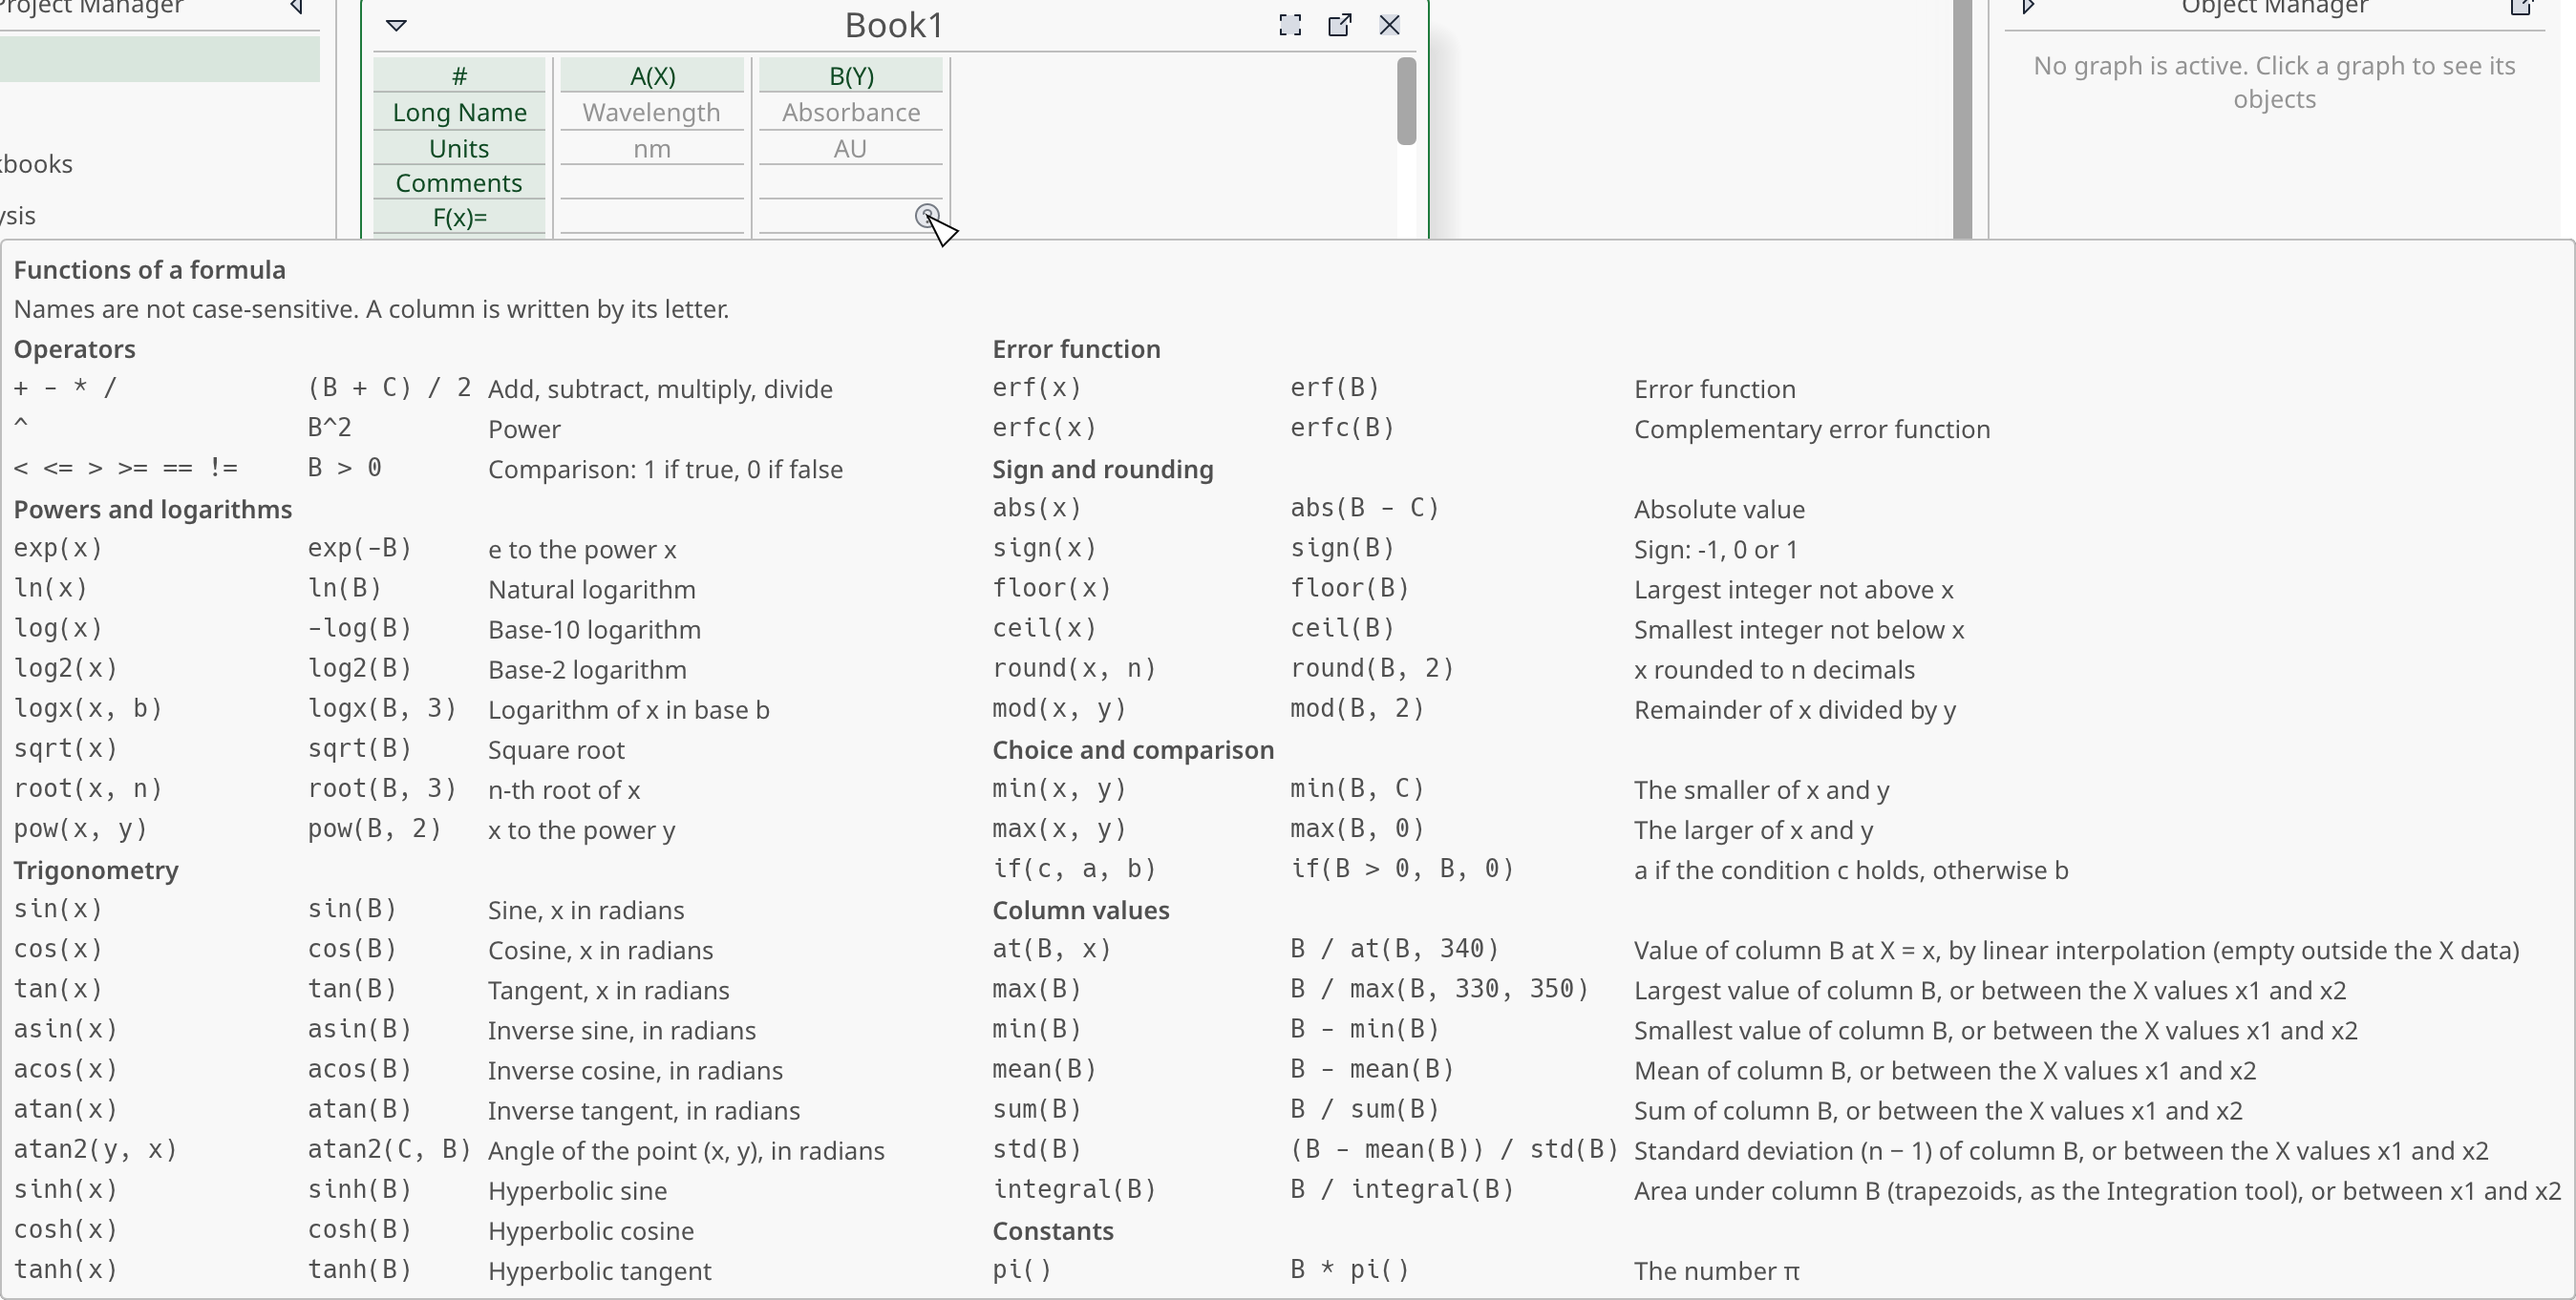
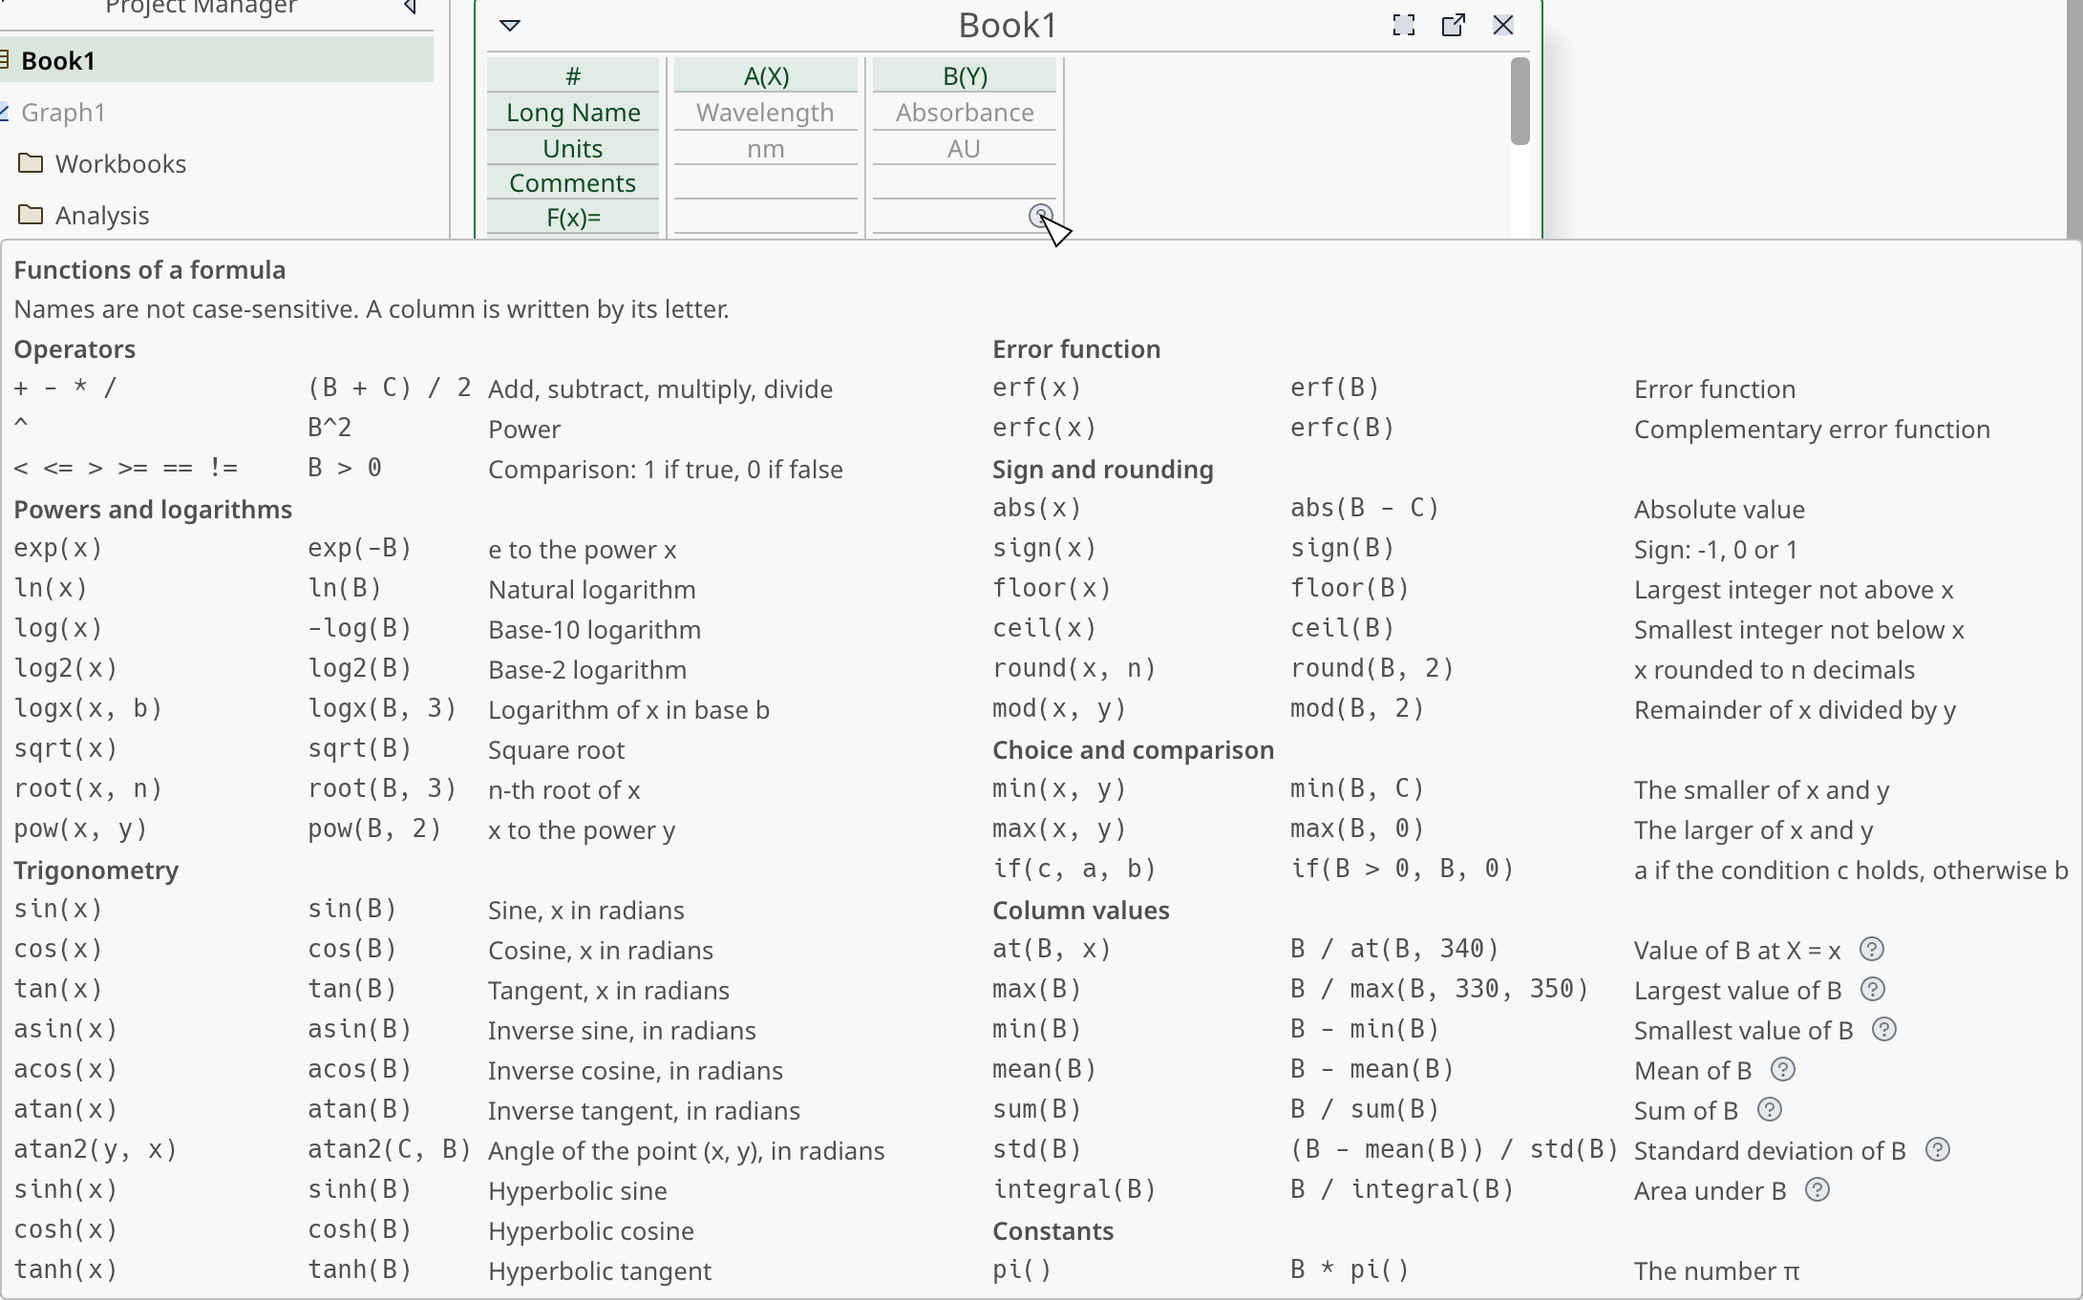
Formula help: short Column values rows with a "?" for the full explanation (Refs #402)
Claude-Session: https://claude.ai/code/session_01PxxG2ShyeKXrR6nqd4iMzf

diff --git a/crates/stokesforge-app-state/src/formula_help.rs b/crates/stokesforge-app-state/src/formula_help.rs
@@ -70,6 +70,9 @@ pub struct HelpRow {
     pub example: &'static str,
     /// What it computes, in the interface language.
     pub description: String,
+    /// The full explanation, shown by a "?" at the end of the row: only the
+    /// "Column values" rows have one (their description is a few words).
+    pub detail: Option<String>,
 }
 
 /// A family and its rows.
@@ -85,6 +88,7 @@ struct Entry {
     signature: &'static str,
     example: &'static str,
     description: String,
+    detail: Option<String>,
 }
 
 fn row(
@@ -98,12 +102,27 @@ fn row(
         signature,
         example,
         description,
+        detail: None,
+    }
+}
+
+/// A row of the "Column values" family: a short description and, behind a "?",
+/// the full explanation.
+fn column_row(
+    signature: &'static str,
+    example: &'static str,
+    description: String,
+    detail: String,
+) -> Entry {
+    Entry {
+        detail: Some(detail),
+        ..row(Family::ColumnValues, signature, example, description)
     }
 }
 
 /// The help entry of a callee. Exhaustive: no `_`.
 fn entry(callee: Callee) -> Entry {
-    use Family::{Choice, ColumnValues, Constants, Error, Powers, Rounding, Trigonometry};
+    use Family::{Choice, Constants, Error, Powers, Rounding, Trigonometry};
     match callee {
         Callee::If => row(
             Choice,
@@ -112,47 +131,47 @@ fn entry(callee: Callee) -> Entry {
             tr!("formula-help-if"),
         ),
         Callee::Column(func) => match func {
-            ColumnFunc::At => row(
-                ColumnValues,
+            ColumnFunc::At => column_row(
                 "at(B, x)",
                 "B / at(B, 340)",
                 tr!("formula-help-at"),
+                tr!("formula-help-at-detail"),
             ),
-            ColumnFunc::Max => row(
-                ColumnValues,
+            ColumnFunc::Max => column_row(
                 "max(B)",
                 "B / max(B, 330, 350)",
                 tr!("formula-help-max-column"),
+                tr!("formula-help-max-column-detail"),
             ),
-            ColumnFunc::Min => row(
-                ColumnValues,
+            ColumnFunc::Min => column_row(
                 "min(B)",
                 "B - min(B)",
                 tr!("formula-help-min-column"),
+                tr!("formula-help-min-column-detail"),
             ),
-            ColumnFunc::Mean => row(
-                ColumnValues,
+            ColumnFunc::Mean => column_row(
                 "mean(B)",
                 "B - mean(B)",
                 tr!("formula-help-mean"),
+                tr!("formula-help-mean-detail"),
             ),
-            ColumnFunc::Sum => row(
-                ColumnValues,
+            ColumnFunc::Sum => column_row(
                 "sum(B)",
                 "B / sum(B)",
                 tr!("formula-help-sum"),
+                tr!("formula-help-sum-detail"),
             ),
-            ColumnFunc::Std => row(
-                ColumnValues,
+            ColumnFunc::Std => column_row(
                 "std(B)",
                 "(B - mean(B)) / std(B)",
                 tr!("formula-help-std"),
+                tr!("formula-help-std-detail"),
             ),
-            ColumnFunc::Integral => row(
-                ColumnValues,
+            ColumnFunc::Integral => column_row(
                 "integral(B)",
                 "B / integral(B)",
                 tr!("formula-help-integral"),
+                tr!("formula-help-integral-detail"),
             ),
         },
         Callee::Table(func) => match func {
@@ -207,6 +226,7 @@ fn operator_rows() -> Vec<HelpRow> {
         signature,
         example,
         description,
+        detail: None,
     };
     vec![
         operator("+ - * /", "(B + C) / 2", tr!("formula-help-op-arithmetic")),
@@ -241,6 +261,7 @@ pub fn groups() -> Vec<HelpGroup> {
                         signature: entry.signature,
                         example: entry.example,
                         description: entry.description.clone(),
+                        detail: entry.detail.clone(),
                     }),
             );
             (!rows.is_empty()).then(|| HelpGroup {
@@ -317,6 +338,33 @@ mod tests {
                 row.example
             );
         }
+    }
+
+    /// A "Column values" row says little and explains behind its "?": every one
+    /// has a detail, in both languages, and no other family has one.
+    #[test]
+    fn every_column_values_row_has_a_detail() {
+        for language in [
+            crate::i18n::Language::English,
+            crate::i18n::Language::French,
+        ] {
+            crate::i18n::set_language(language);
+            let rows = all_rows();
+            let column_rows: Vec<&HelpRow> = rows
+                .iter()
+                .filter(|row| matches!(row.callee, Some(Callee::Column(_))))
+                .collect();
+            assert_eq!(column_rows.len(), ColumnFunc::ALL.len());
+            for row in column_rows {
+                let detail = row.detail.as_deref().unwrap_or_default();
+                assert!(detail.len() > row.description.len(), "{}", row.signature);
+            }
+            assert!(rows
+                .iter()
+                .filter(|row| !matches!(row.callee, Some(Callee::Column(_))))
+                .all(|row| row.detail.is_none()));
+        }
+        crate::i18n::set_language(crate::i18n::Language::English);
     }
 
     #[test]

diff --git a/crates/stokesforge-app/src/app/hover_help.rs b/crates/stokesforge-app/src/app/hover_help.rs
@@ -30,6 +30,23 @@ pub(crate) fn hover_help(
     .on_hover_ui(contents)
 }
 
+/// The "?" of a row **inside** another hover bubble (the `F(x)=` help, #402).
+/// It senses the click (which does nothing): egui keeps a tooltip open while
+/// the pointer moves over an interactive widget of it, so the outer bubble
+/// stays when the pointer goes from its icon to this one.
+pub(crate) fn help_text_in_bubble(ui: &mut egui::Ui, text: impl Into<String>) -> egui::Response {
+    let text = text.into();
+    ui.add(
+        icon_image(Icon::Help, IconRole::Neutral)
+            .tint(theme::help_icon_tint())
+            .sense(egui::Sense::click()),
+    )
+    .on_hover_ui(|ui| {
+        ui.set_max_width(360.0);
+        ui.label(text);
+    })
+}
+
 /// A field's reminder in one sentence (#225, S-M1): the "?" icon whose bubble
 /// is only `text`.
 pub(crate) fn help_text(ui: &mut egui::Ui, text: impl Into<String>) -> egui::Response {

diff --git a/crates/stokesforge-app/src/app/column_formula_help.rs b/crates/stokesforge-app/src/app/column_formula_help.rs
@@ -87,7 +87,13 @@ fn paint_line(ui: &mut egui::Ui, line: Option<&Line<'_>>) {
         Some(Line::Function(row)) => {
             ui.monospace(row.signature);
             ui.monospace(row.example);
-            ui.label(&row.description);
+            // A row with a detail ends with a "?" that explains it in full.
+            ui.horizontal(|ui| {
+                ui.label(&row.description);
+                if let Some(detail) = &row.detail {
+                    super::hover_help::help_text_in_bubble(ui, detail.as_str());
+                }
+            });
         }
         None => {
             for _ in 0..3 {
@@ -129,6 +135,7 @@ mod tests {
             signature: "f()",
             example: "f()",
             description: String::new(),
+            detail: None,
         };
         HelpGroup {
             title: String::new(),

diff --git a/manual/src/guide/projects-and-workbooks.md b/manual/src/guide/projects-and-workbooks.md
@@ -275,7 +275,7 @@ A column can compute its values from other columns of the same sheet. Type the f
 
 For example, to fill column C with the sum of A and B, double-click the **F(x)=** cell of column C, type `A+B` and press <kbd>Enter</kbd>.
 
-While you type, a small **?** icon sits at the right of the cell. Hover it to see the operators and functions you can use, grouped by family, each with an example.
+While you type, a small **?** icon sits at the right of the cell. Hover it to see the operators and functions you can use, grouped by family, each with an example. The rows of the "Column values" family end with their own **?**: move the pointer onto it for the full explanation.
 
 <img src="../images/workbooks-formula-help.png" alt="The F(x)= cell of column B being edited: the bubble of its ? icon lists the functions by family, each with its signature, an example and a description." width="800">
 
